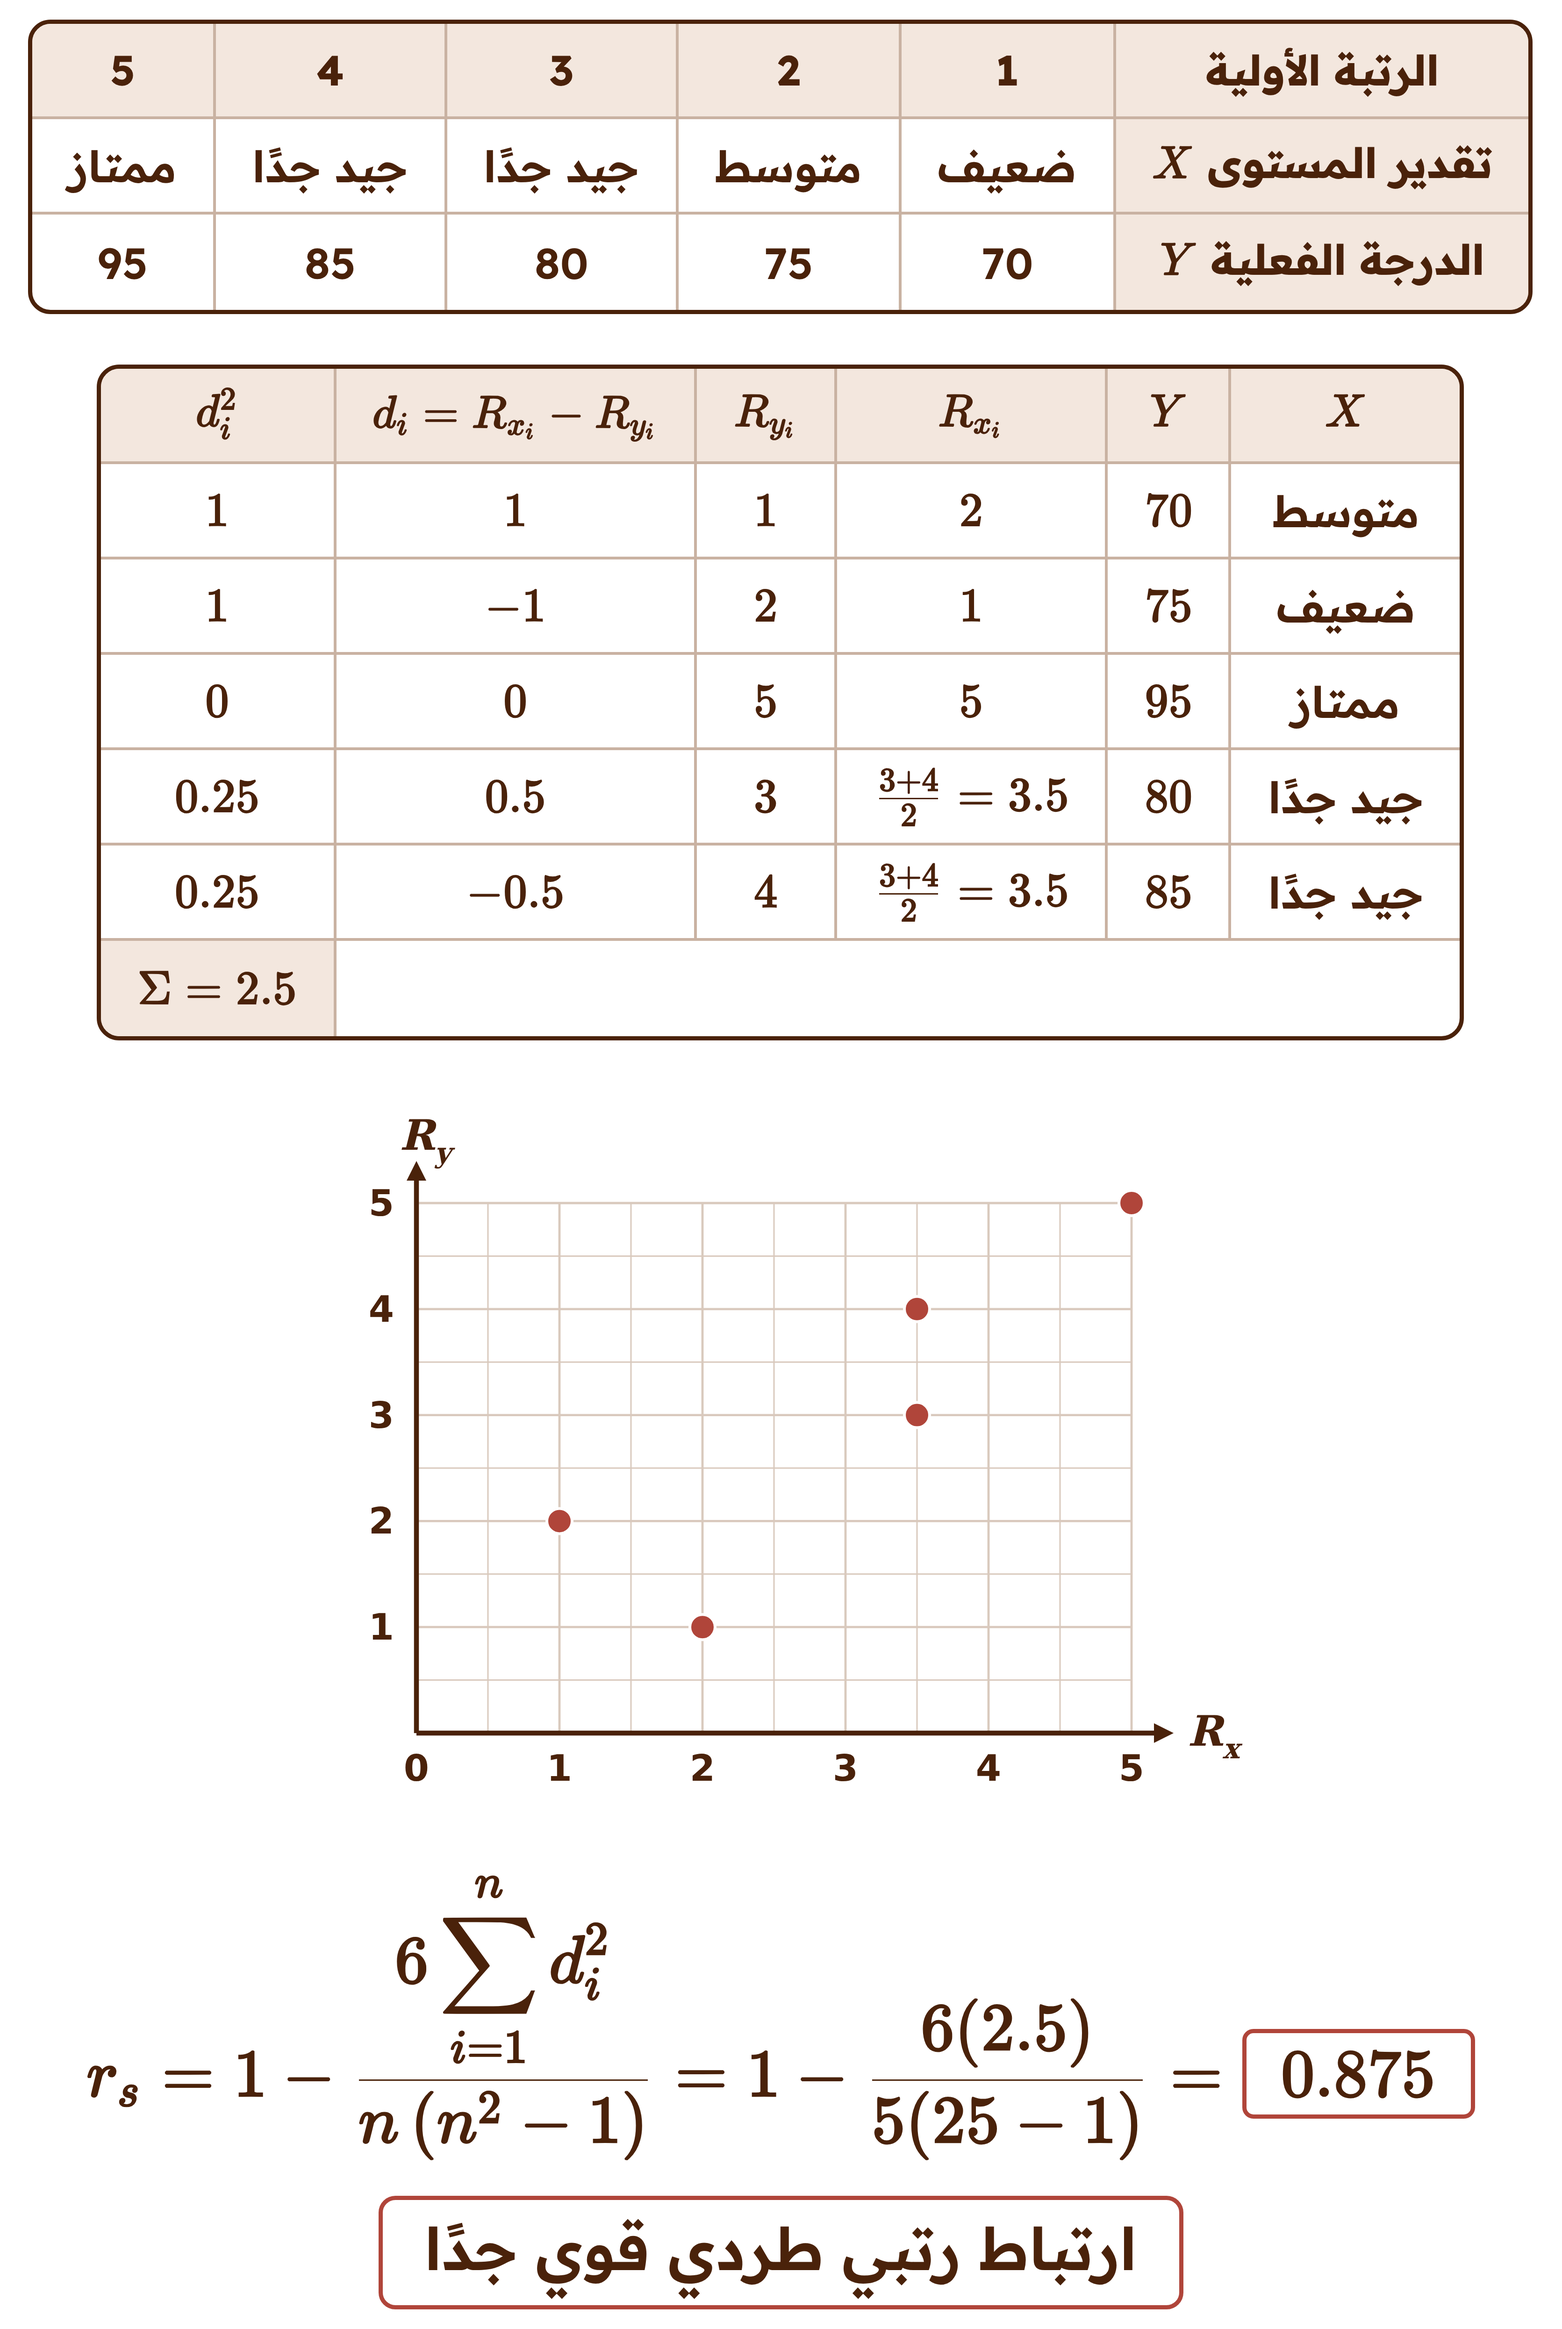
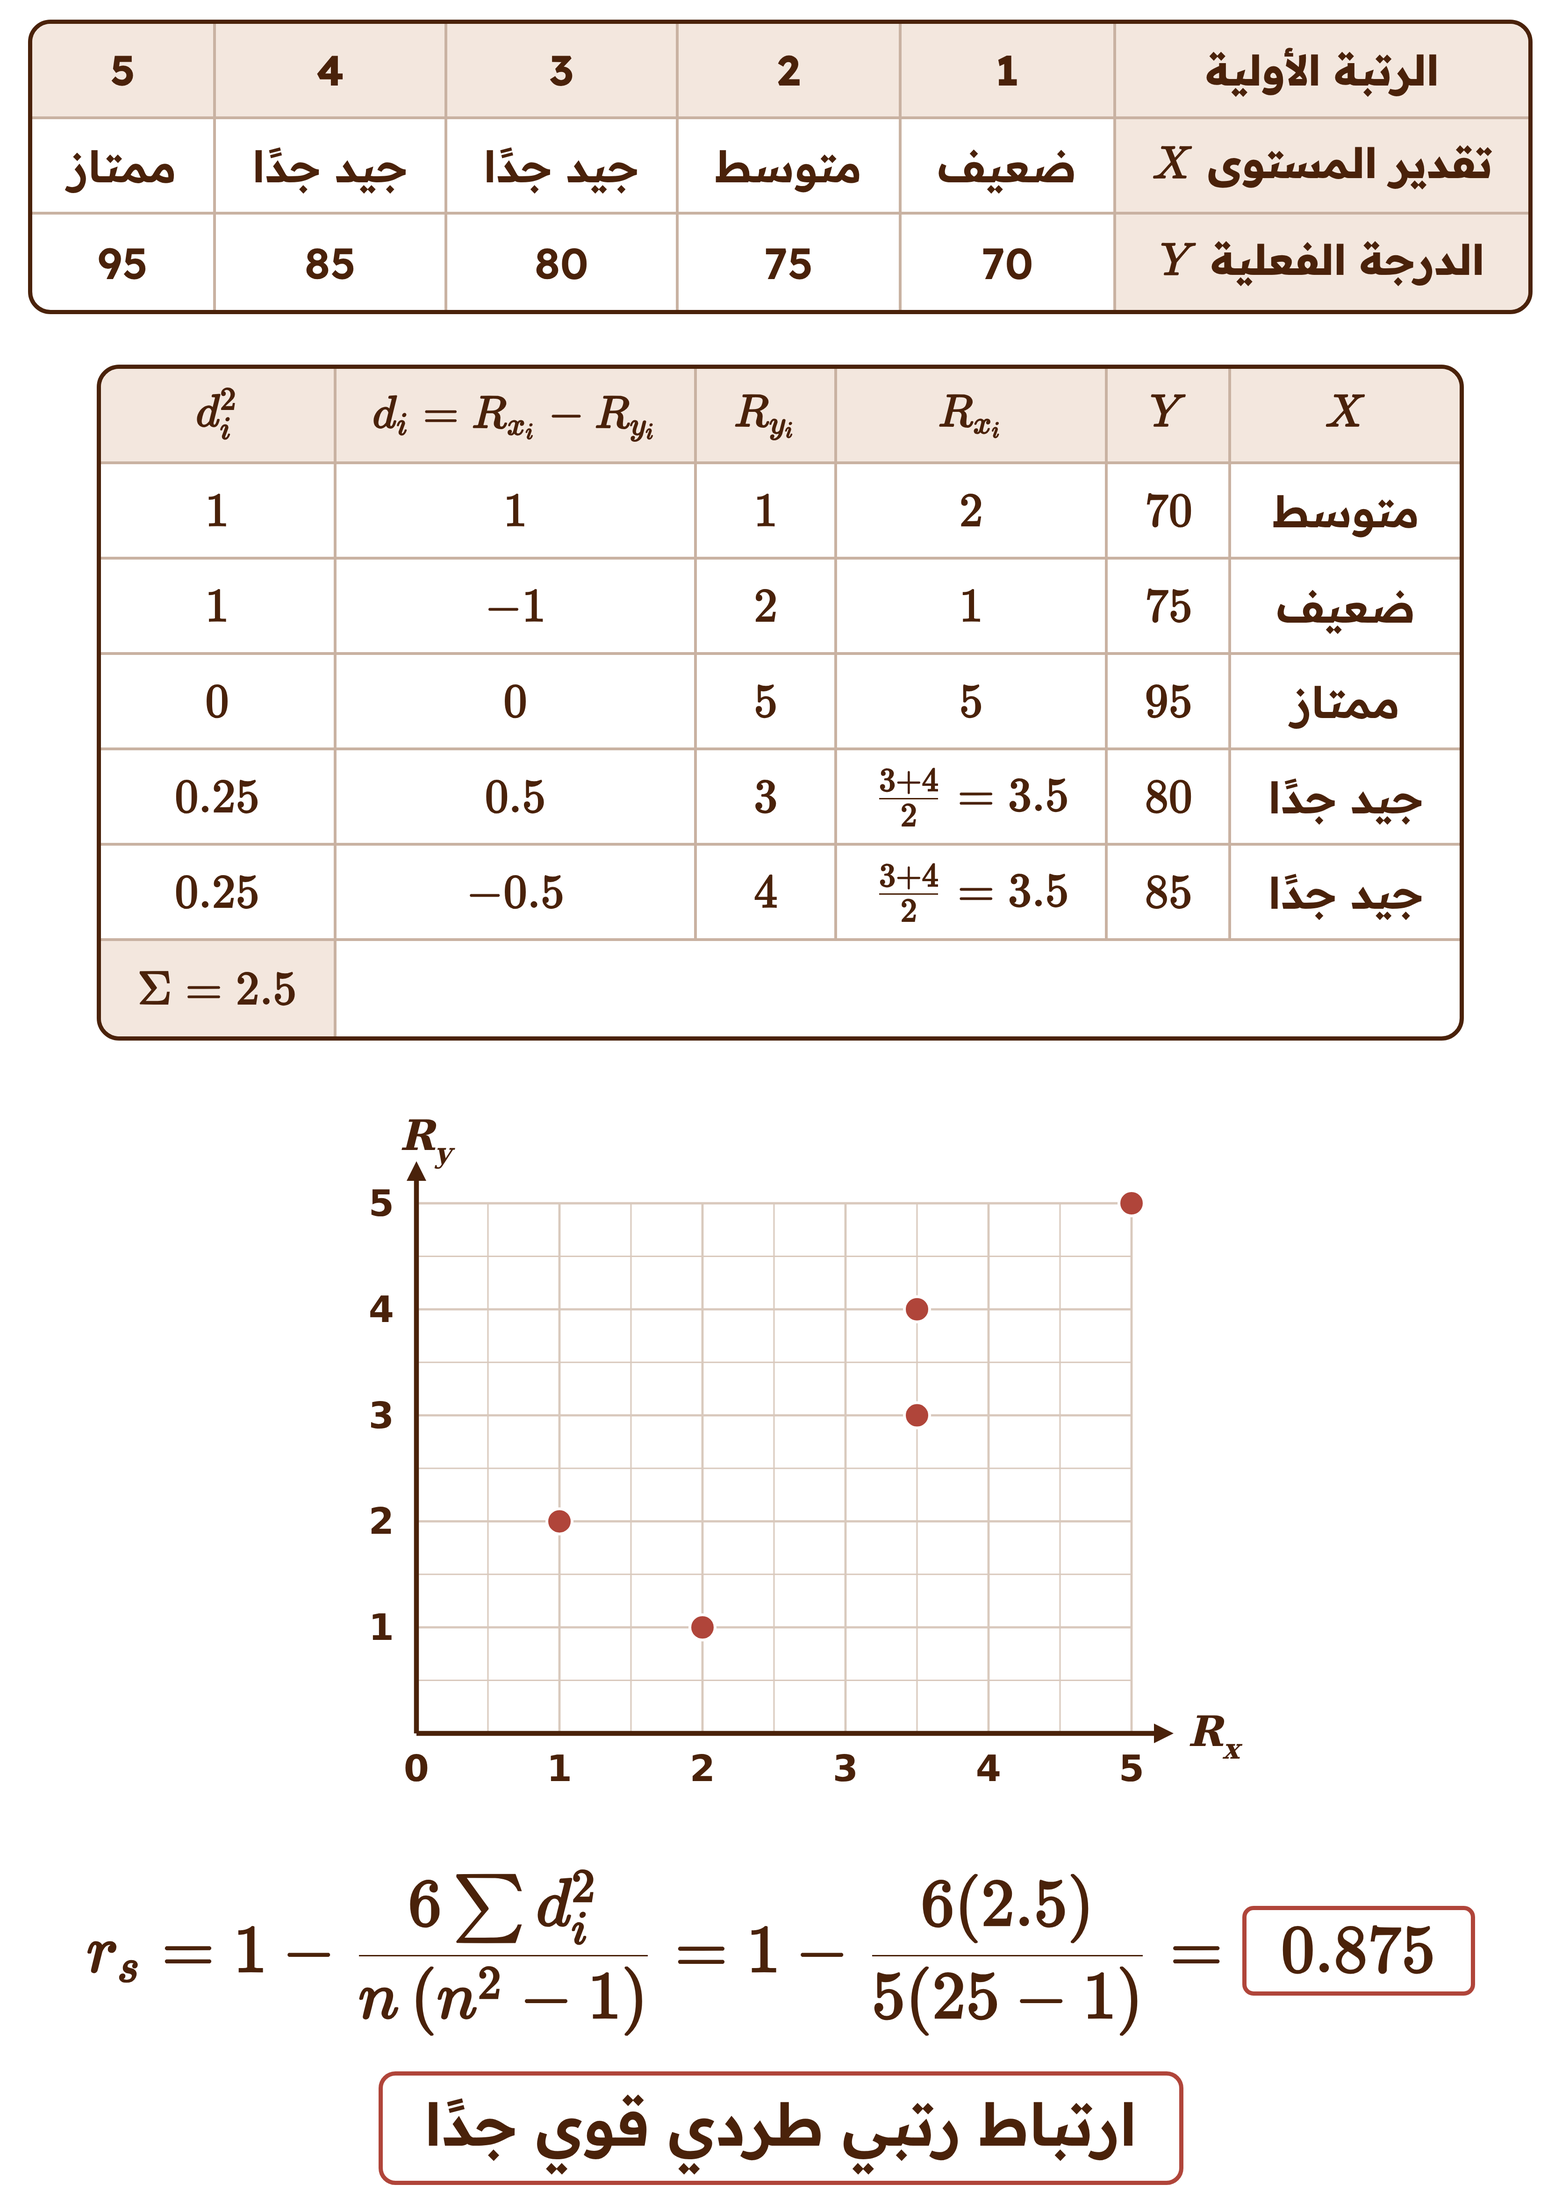
Spearman example 1: short-form formula (6Σd²)
Claude-Session: https://claude.ai/code/session_01P2W4DViX2DDJL3Qd7qfdx4

diff --git a/tools/statistics/ex_spearman1.js b/tools/statistics/ex_spearman1.js
@@ -26,7 +26,7 @@ const step2=`<table class="t"><tr class="hd">${['X','Y','R_{x_i}','R_{y_i}','d_i
 ${X.map((x,i)=>`<tr><td>${x}</td><td>${K(String(Y[i]))}</td><td>${rk(RX[i])}</td><td>${rk(RY[i])}</td><td>${K(fmt(D[i]))}</td><td>${K(fmt(D2[i]))}</td></tr>`).join('')}
 <tr class="s"><td colspan="5"></td><td>${K('\\Sigma='+fmt(SD2))}</td></tr></table>`;
 // 4) القانون والتعويض والناتج
-const tex=String.raw`r_s=1-\dfrac{6\displaystyle\sum_{i=1}^{n}d_i^{2}}{n\left(n^{2}-1\right)}=1-\dfrac{6(${fmt(SD2)})}{${n}(${n*n}-1)}=\fcolorbox{${BOX}}{transparent}{$\;${fmt(rs)}\;$}`;
+const tex=String.raw`r_s=1-\dfrac{6\sum d_i^{2}}{n\left(n^{2}-1\right)}=1-\dfrac{6(${fmt(SD2)})}{${n}(${n*n}-1)}=\fcolorbox{${BOX}}{transparent}{$\;${fmt(rs)}\;$}`;
 const sol=`<div class="eq">${K(tex,1)}</div><div class="ans"><span>ارتباط رتبي طردي قوي جدًا</span></div>`;
 // 5) لوحة انتشار الرتب
 function grid(points){
